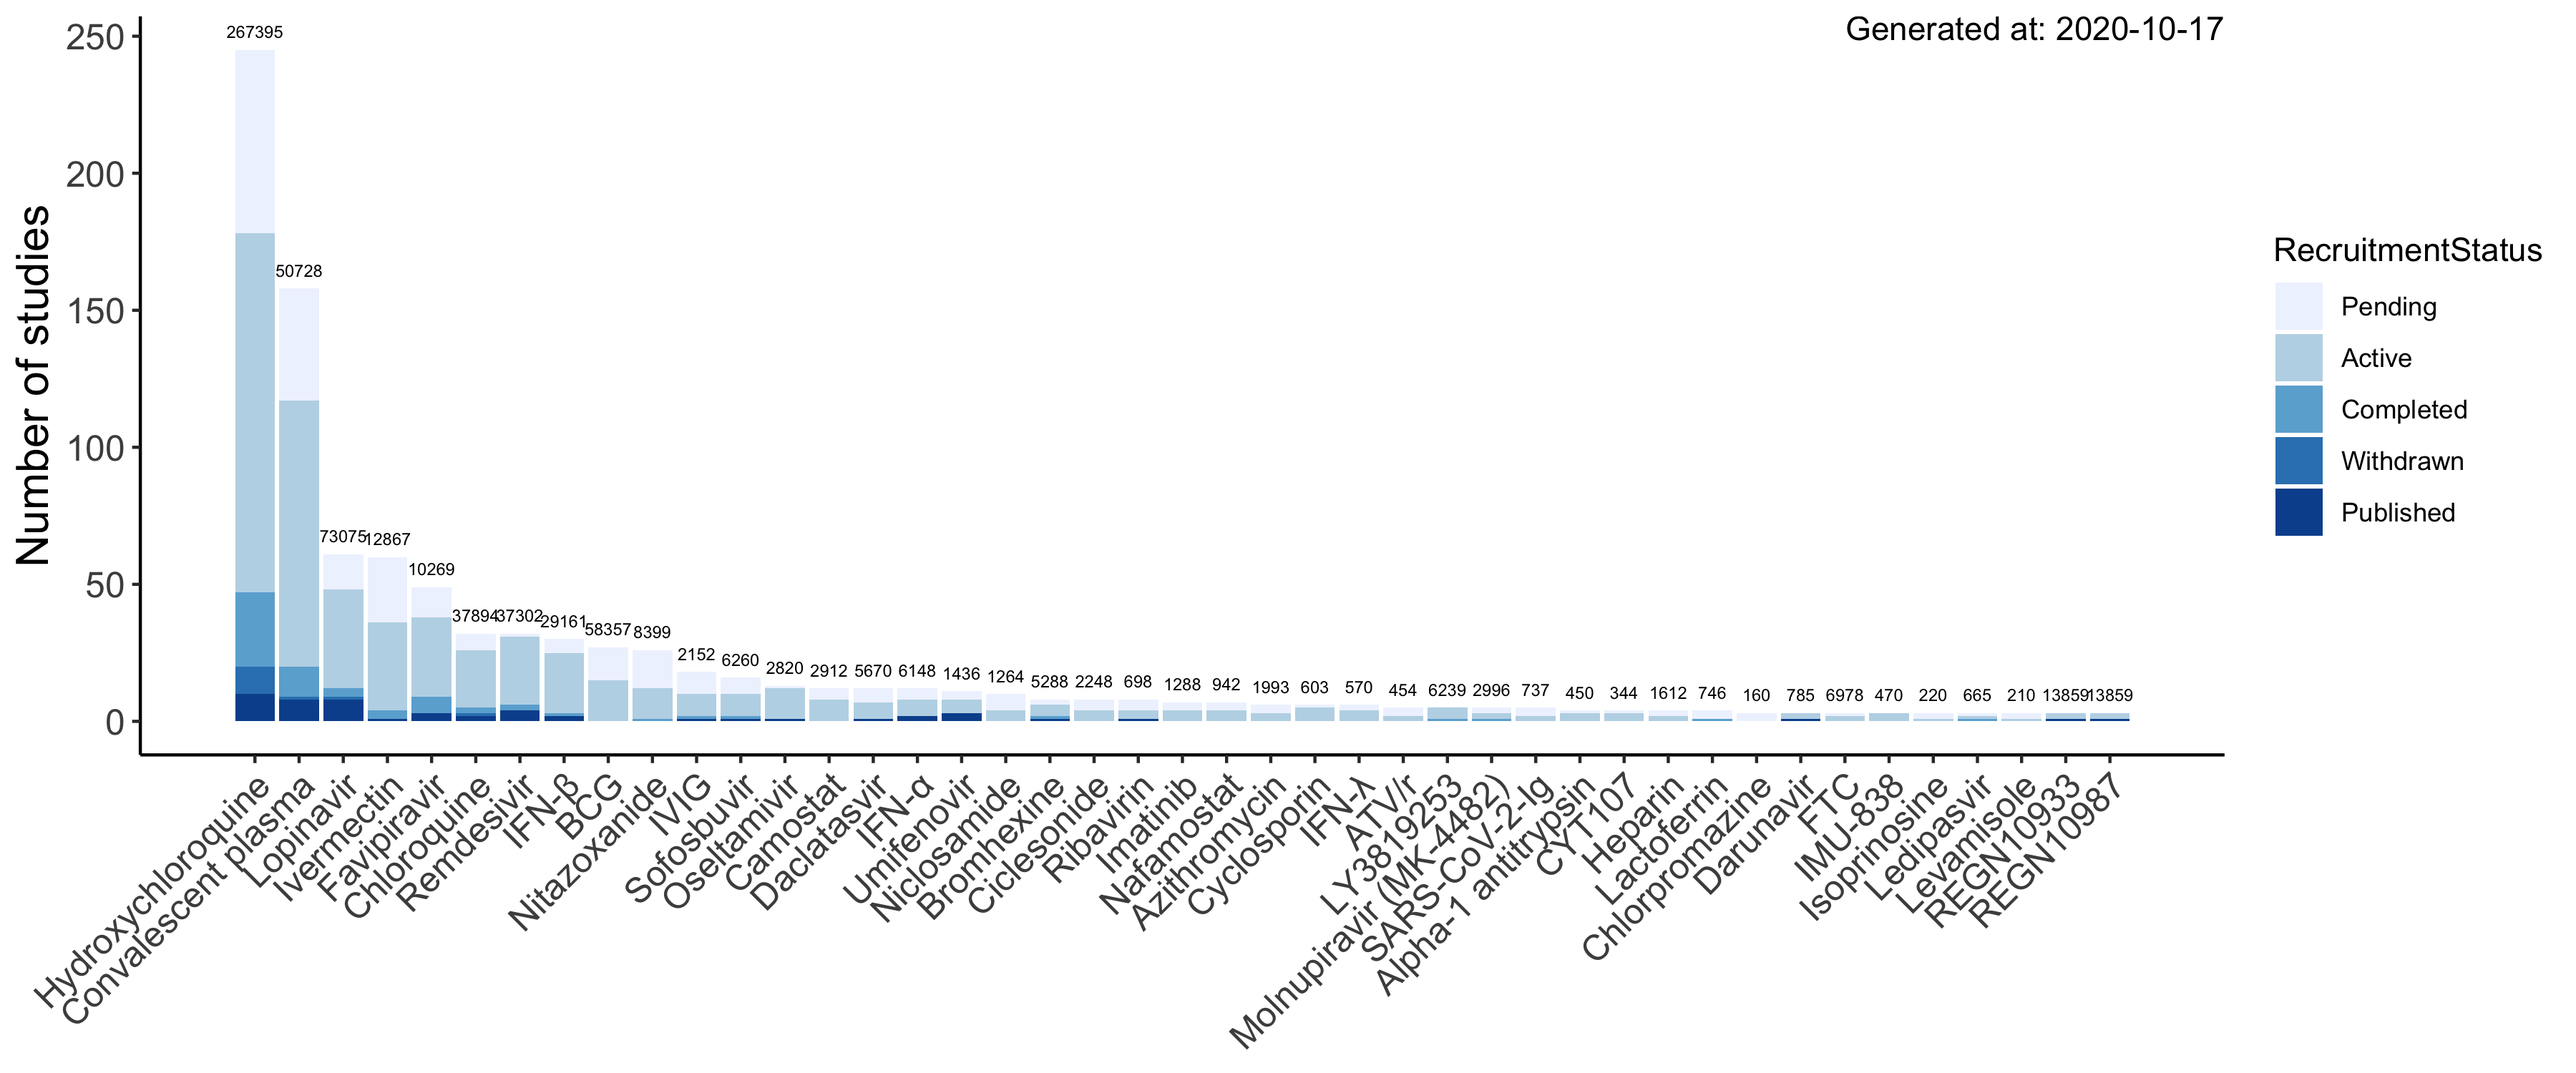
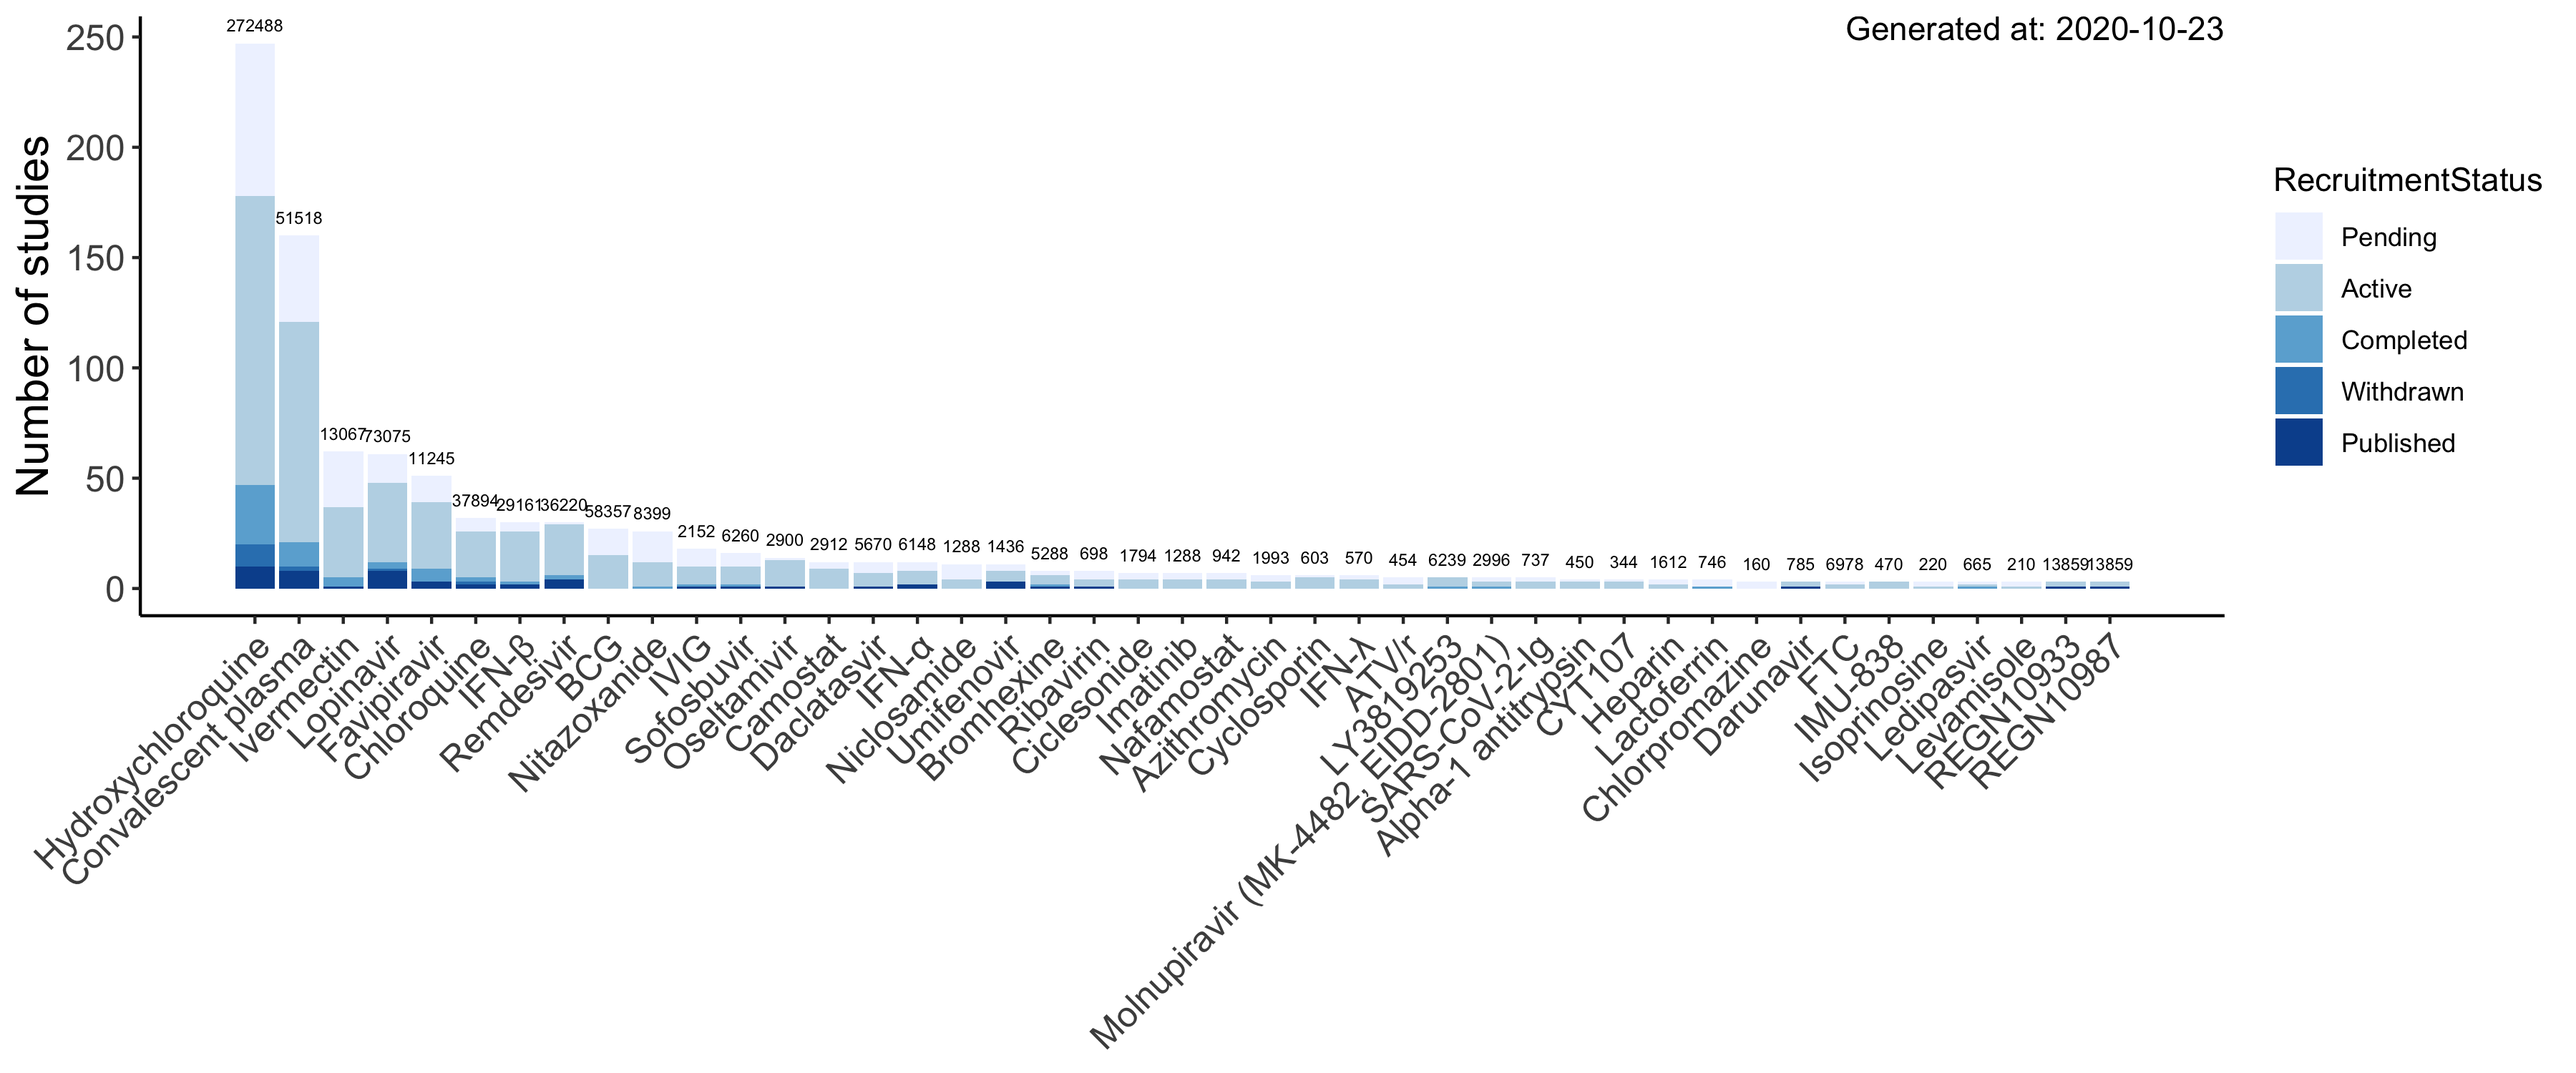
update updates and clinical trials images

diff --git a/resources/updates-homepage.md b/resources/updates-homepage.md
@@ -22,6 +22,9 @@ Instruction:
 7. Please do not delete this instruction.
 
 -->
+
+### [Clinical Trials (Oct 22)](/page/updates/#clinical.trials)
+[16 clinical trials from ClinicalTrials.gov and WHO ICTRP were added to the registry of Ongoing and Planned Clinical Trials of Antiviral Compounds.](/clinical-trials/?fromDate=2020-10-22)
 ### Database Entries (Oct 22)
 Rosenke K, Leventhal S, et int., and Stein DA. [“Inhibition of SARS-CoV-2 in Vero cell cultures by peptide-conjugated morpholino-oligomers.”](/search/?article=Rosenke20b) _bioRxiv_, 2020. [doi.org/10.1101/2020.09.29.319731](https://doi.org/10.1101/2020.09.29.319731). \[[PubMed33024974](https://www.ncbi.nlm.nih.gov/pubmed/33024974/)\] \[[PMC7536879](https://www.ncbi.nlm.nih.gov/pmc/articles/PMC7536879/)\]
 ### Database Entries (Oct 22)
@@ -130,11 +133,3 @@ Cao L, Goreshnik I, et int., and Baker D. [“De novo design of picomolar SARS-C
 
 ### [Interface update (Sep 22)](/page/updates/#features)
 We now support downloading CSV/Excel files for tables.
-
-### [Editorial (Sep 21)](/page/updates/#papers)
-
-Shafer R. “A SARS-CoV-2 antiviral therapy score card” _Global Health & Medicine_, 2020. [doi.org/10.35772/ghm.2020.01082](https://doi.org/10.35772/ghm.2020.01082).
-
-### [Preprints => Peer-Reviewed Publications (Sep 16)](/page/updates/#preprints.peer-reviewed.publications)
-
-3 published preprints were added.

diff --git a/resources/updates.md b/resources/updates.md
@@ -783,6 +783,24 @@ Instruction:
 
 ## Clinical Trials
 ### October 2020
+- October 22
+    - [16 clinical trials were added.](/clinical-trials/?fromDate=2020-10-22)
+    - ACTRN12620001048976
+    - EUCTR2020-001610-38-DK
+    - EUCTR2020-004928-42-HU
+    - NCT04589949
+    - NCT04590274
+    - NCT04590430
+    - NCT04591600
+    - NCT04592549
+    - NCT04592835
+    - NCT04593641
+    - NCT04595136
+    - NCT04596839
+    - NCT04597775
+    - NCT04600440
+    - NCT04600895
+    - NCT04600999
 - October 15
     - [5 clinical trials were added.](/clinical-trials/?fromDate=2020-10-15)
     - NCT04584684
